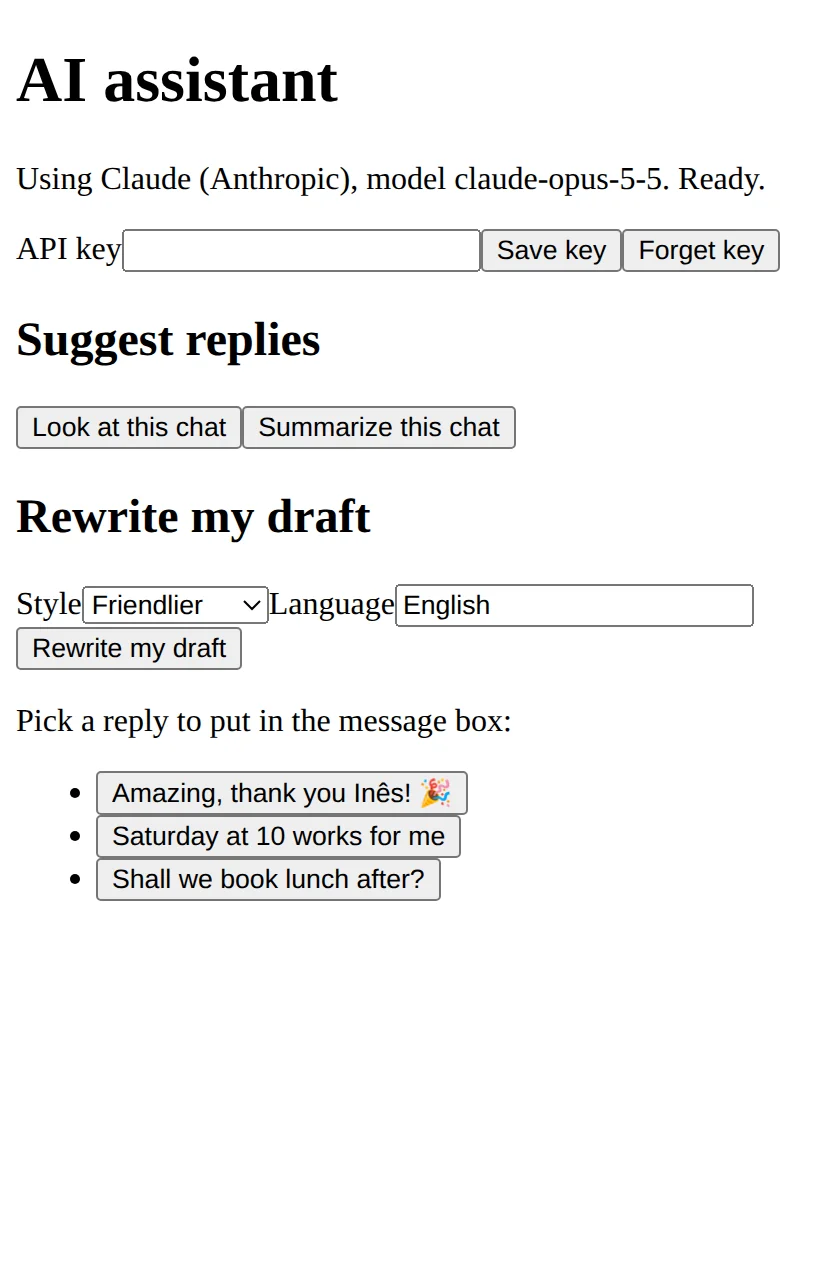
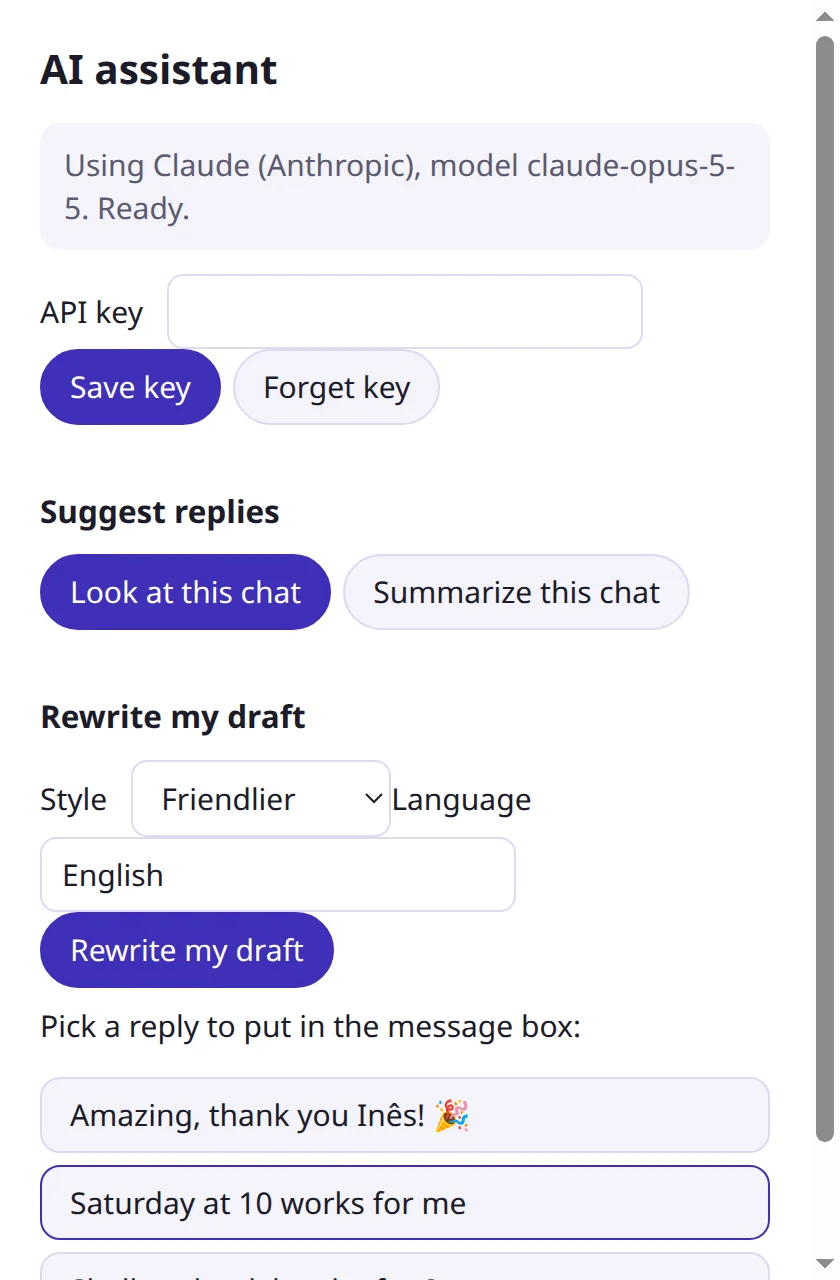
docs(site): show the real WhatsApp, with invented chats, on the home page

diff --git a/apps/desktop/e2e/screenshots/website.spec.ts b/apps/desktop/e2e/screenshots/website.spec.ts
@@ -1,6 +1,6 @@
 import type { ElectronApplication } from '@playwright/test';
 import { execFileSync } from 'node:child_process';
-import { mkdir, rm, writeFile } from 'node:fs/promises';
+import { mkdir, writeFile } from 'node:fs/promises';
 import { join } from 'node:path';
 import { SETTINGS_VERSION } from '../../src/main/settings/schema.ts';
 import { claudeAnswer, readyAssistant } from '../assistant-helpers.ts';
@@ -9,8 +9,10 @@ import { closeApp, expect, launchApp, test } from '../fixtures.ts';
 import { chromePage, clickMenu } from '../plugin-helpers.ts';
 
 /**
- * The website's screenshots (#384), taken on the showcase page with invented
- * people, never on a real account.
+ * Screenshots of YapYap's own windows for the website (#384), taken on the
+ * showcase page with invented people, never on a real account. The main
+ * window's pictures show the real WhatsApp, with the maintainer's chats
+ * replaced by invented ones on screen before capture; see CONTRIBUTING.
  */
 const OUT = join(import.meta.dirname, '..', '..', '..', '..', 'docs', 'public', 'screenshots');
 const SCALE = 2;
@@ -90,58 +92,6 @@ async function captureWindow(app: ElectronApplication, path: string, name: strin
 }
 
 /**
- * The main window: its visible views, each from its own page, put together
- * where the window lays them out. Electron paints its windows outside the
- * X11 framebuffer here, so the display itself cannot be captured.
- */
-async function captureMain(app: ElectronApplication, name: string): Promise<void> {
-  const layout = await app.evaluate(({ BaseWindow }) => {
-    // The window order changes once other windows open, so the main one is found by its views.
-    const window = BaseWindow.getAllWindows().find((candidate) =>
-      candidate.contentView.children.some((view) =>
-        (view as Electron.WebContentsView).webContents.getURL().endsWith('/sidebar.html'),
-      ),
-    );
-    return {
-      size: window?.getContentBounds(),
-      views: (window?.contentView.children ?? [])
-        .filter((view) => view.getVisible())
-        .map((view) => ({
-          url: (view as Electron.WebContentsView).webContents.getURL(),
-          bounds: view.getBounds(),
-        })),
-    };
-  });
-  if (layout.size === undefined) {
-    throw new Error('No main window.');
-  }
-  await mkdir(OUT, { recursive: true });
-  const parts: { file: string; x: number; y: number }[] = [];
-  for (const [index, view] of layout.views.entries()) {
-    await new Promise((resolve) => setTimeout(resolve, 1000));
-    const file = join(OUT, `.${name}-${String(index)}.png`);
-    await capturePage(app, view.url, file);
-    parts.push({ file, x: view.bounds.x * SCALE, y: view.bounds.y * SCALE });
-  }
-  const png = join(OUT, `${name}.png`);
-  const size = `${String(layout.size.width * SCALE)}x${String(layout.size.height * SCALE)}`;
-  const overlays = parts
-    .map((part, index) => {
-      const from = index === 0 ? '[0]' : `[v${String(index)}]`;
-      const to = index === parts.length - 1 ? '' : `[v${String(index + 1)}]`;
-      return `${from}[${String(index + 1)}]overlay=${String(part.x)}:${String(part.y)}${to}`;
-    })
-    .join(';');
-  execFileSync('ffmpeg', [
-    ...['-loglevel', 'error', '-y', '-f', 'lavfi', '-i', `color=c=black:s=${size}`],
-    ...parts.flatMap((part) => ['-i', part.file]),
-    ...['-filter_complex', overlays, '-frames:v', '1', png],
-  ]);
-  await Promise.all(parts.map((part) => rm(part.file)));
-  webp(png, name);
-}
-
-/**
  * Gives the Work account its own persona in its own storage, which outlives
  * a restart, so both accounts load as themselves, photos included, the
  * next time YapYap starts.
@@ -173,31 +123,20 @@ async function preparePersonas(origin: string, profile: string): Promise<void> {
   }
 }
 
-for (const theme of ['light', 'dark'] as const) {
-  test(`main window, ${theme}`, async ({ profile }) => {
-    const showcase = await startFakeWhatsApp('showcase.html');
-    await seed(profile, theme);
-    await preparePersonas(showcase.origin, profile);
-    const app = await launchApp(showcase.origin, profile, [
-      `--force-device-scale-factor=${String(SCALE)}`,
-    ]);
-    try {
-      const sidebar = await chromePage(app, '/sidebar.html');
-      await expect(sidebar.locator('img.photo')).toHaveCount(2, { timeout: 30_000 });
-      await captureMain(app, `main-${theme}`);
-      if (theme === 'light') {
-        await clickMenu(app, 'Privacy Screen');
-        await captureMain(app, 'privacy');
-        await clickMenu(app, 'Privacy Screen');
-        await clickMenu(app, 'Settings…');
-        await captureWindow(app, '/settings.html', 'settings');
-      }
-    } finally {
-      await closeApp(app);
-      await showcase.close();
-    }
-  });
-}
+test('Settings window', async ({ profile }) => {
+  const showcase = await startFakeWhatsApp('showcase.html');
+  await seed(profile, 'light');
+  const app = await launchApp(showcase.origin, profile, [
+    `--force-device-scale-factor=${String(SCALE)}`,
+  ]);
+  try {
+    await clickMenu(app, 'Settings…');
+    await captureWindow(app, '/settings.html', 'settings');
+  } finally {
+    await closeApp(app);
+    await showcase.close();
+  }
+});
 
 test('AI assistant suggesting replies', async ({ profile }) => {
   const showcase = await startFakeWhatsApp('showcase.html');
@@ -215,7 +154,6 @@ test('AI assistant suggesting replies', async ({ profile }) => {
     await panel.getByRole('button', { name: 'Send', exact: true }).click();
     await expect(panel.getByRole('button', { name: 'Saturday at 10 works for me' })).toBeVisible();
     await captureWindow(app, '/__yapyap/panel.html', 'assistant');
-    await captureMain(app, 'assistant-main');
   } finally {
     await closeApp(app);
     await showcase.close();

diff --git a/docs/.vitepress/theme/components/Landing.vue b/docs/.vitepress/theme/components/Landing.vue
@@ -101,18 +101,10 @@ const faqs: readonly { readonly question: string; readonly answer: string }[] = 
         <div class="window">
           <div class="window-bar" aria-hidden="true"><span /><span /><span /></div>
           <img
-            class="only-light"
-            :src="shot('main-light')"
-            width="1200"
-            height="732"
-            alt="YapYap with two accounts in its sidebar, each with a profile photo and an unread count, beside an open chat."
-          />
-          <img
-            class="only-dark"
-            :src="shot('main-dark')"
-            width="1200"
-            height="732"
-            alt="YapYap in its dark theme, with two accounts in the sidebar beside an open chat."
+            :src="shot('main')"
+            width="1920"
+            height="869"
+            alt="YapYap running WhatsApp with two accounts, Personal and Work, in its sidebar, each with a photo and an unread count, beside an open chat."
           />
         </div>
         <figcaption>Names, photos and messages replaced with invented ones.</figcaption>
@@ -172,18 +164,11 @@ const faqs: readonly { readonly question: string; readonly answer: string }[] = 
         </ul>
       </div>
       <img
-        class="feature-shot only-light"
-        :src="shot('main-light')"
-        width="1200"
-        height="732"
-        alt="The account sidebar with two accounts."
-      />
-      <img
-        class="feature-shot only-dark"
-        :src="shot('main-dark')"
-        width="1200"
-        height="732"
-        alt="The account sidebar with two accounts, in the dark theme."
+        class="feature-shot"
+        :src="shot('main')"
+        width="1920"
+        height="869"
+        alt="The account sidebar with two accounts, beside WhatsApp."
       />
     </section>
 
@@ -232,8 +217,8 @@ const faqs: readonly { readonly question: string; readonly answer: string }[] = 
       <img
         class="feature-shot"
         :src="shot('privacy')"
-        width="1200"
-        height="732"
+        width="1920"
+        height="869"
         alt="YapYap with its privacy screen on: every chat is blurred."
       />
     </section>

diff --git a/docs/progress.md b/docs/progress.md
@@ -1065,6 +1065,16 @@ not edit the same lines.
   after a one-time consent-law confirmation. A red mark with **Stop
   recording** shows in the call window, sidebar and tray; recordings stop
   with the call, stay local, and are named by date only.
+- User-first website (#383, #384): the home page leads with "WhatsApp,
+  supercharged.", a download button that picks the visitor's installer from
+  `latest.json` (written by the daily docs build with the download counts),
+  the AI assistant, accounts, plugins and privacy, and a comparison with the
+  official app on verifiable points. Screenshots of YapYap's own windows come
+  from `pnpm screenshots` on a showcase page; the main window's show the real
+  WhatsApp with every name, photo and message replaced on screen. The
+  navigation puts Download, Guide and the assistant first, and developer
+  pages under one menu; the install page opens with the button and the
+  apt, dnf and pacman commands as tabs.
 
 - Local E2E isolation on Wayland desktops (#394): Chromium chose Wayland
   from the desktop's `XDG_SESSION_TYPE` and reached the real compositor

diff --git a/CONTRIBUTING.md b/CONTRIBUTING.md
@@ -71,6 +71,16 @@ UI text lives in `apps/desktop/src/shared/messages/locales/en.json`. After
 changing it, run `node scripts/src/bin/i18n-types.ts`. Translations follow
 [docs/translations.md](docs/translations.md).
 
+### Website screenshots
+
+Pictures of YapYap's own windows, such as Settings and the AI assistant, come
+from `pnpm screenshots` (see the commands in CLAUDE.md), on a showcase page
+with invented people. The main window's pictures show the real WhatsApp: the
+maintainer takes them on their own account, after every name, photo and
+message on screen has been replaced with invented ones, and checks each
+picture before it is committed. Never commit a screenshot of anyone's real
+chats.
+
 ### Visual baselines
 
 `apps/desktop/e2e/theme.spec.ts` compares the app chrome against screenshots
